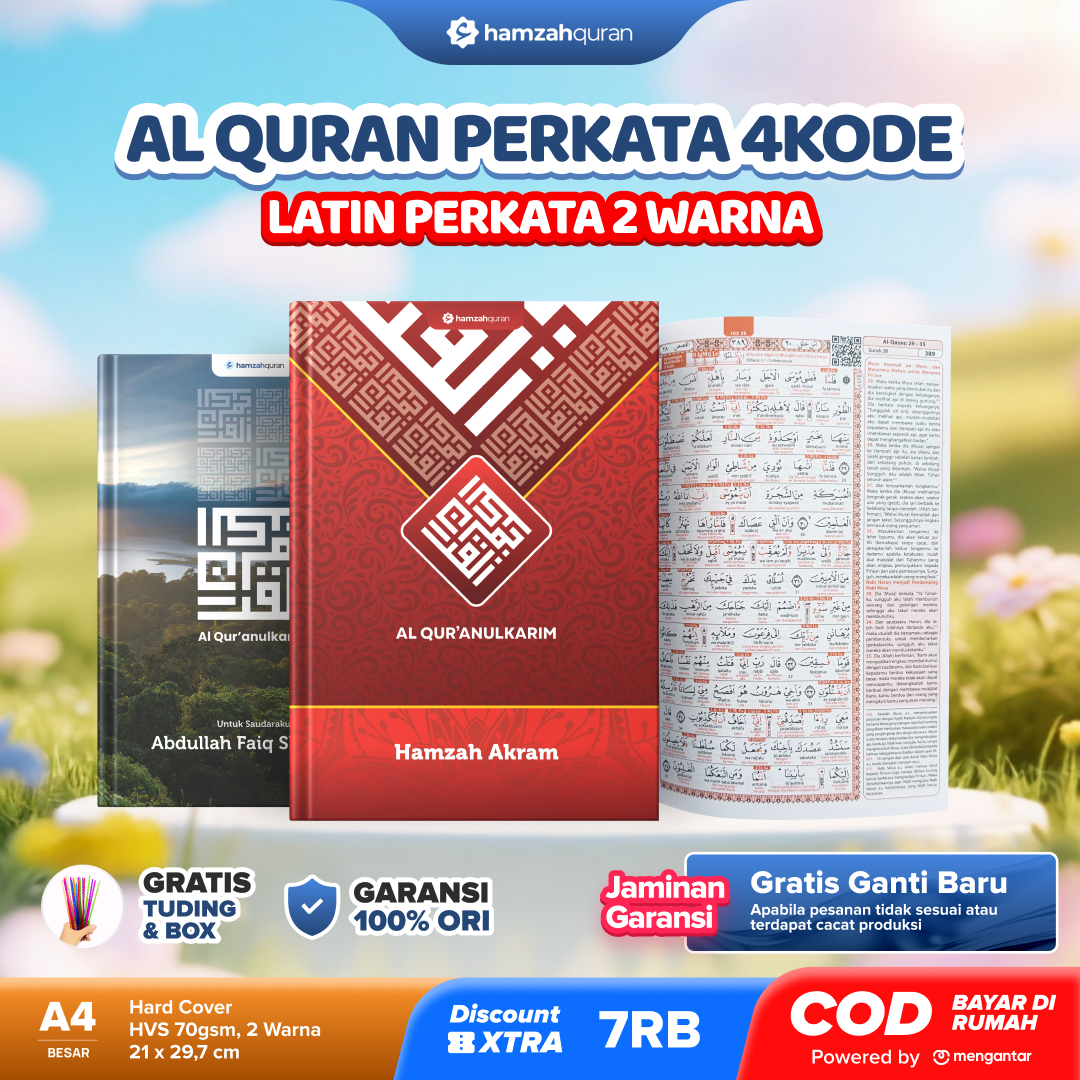
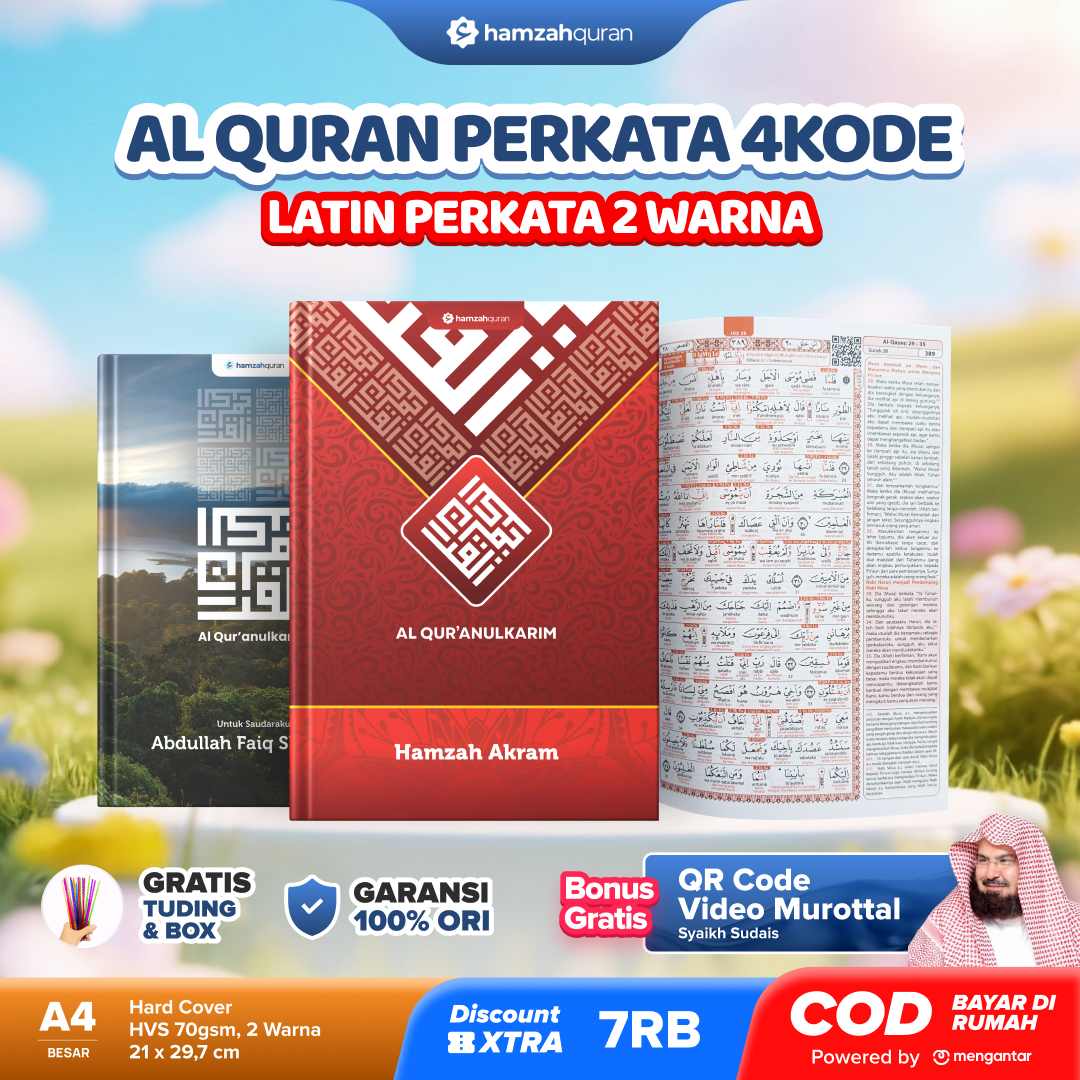
kecilkan judul produk desktop, nama produk HVS/QPP, social proof baru

Changed region(s): [[0.5194, 0.7333, 1.0, 0.9167]]

diff --git a/script.js b/script.js
@@ -146,7 +146,7 @@ id: 3,
     },
     {
         id: 11,
-        name: "Al Quran Custom Tilawah A4",
+        name: "Al Quran Custom Tilawah A4 QPP Tajwid Warna",
         category: "Al Quran Besar",
         weight: 1600,
         priceCrt: "Rp169.000",
@@ -154,13 +154,13 @@ id: 3,
         priceWa: "Rp155.000",
         img: "img/katalog/tilawah-a4.jpg",
         images: ["img/tilawah-a4/tilawah-a4.jpg", "img/tilawah-a4/tilawah-a4-1.jpg", "img/tilawah-a4/tilawah-a4-2.jpg", "img/tilawah-a4/tilawah-a4-3.jpg", "img/tilawah-a4/tilawah-a4-4.jpg", "img/usp.jpg", "img/usp-1.jpg", "img/usp-2.jpg"],
-        wa: "Halo Admin, saya ingin pesan Al Quran Custom Nama Tilawah A4",
+        wa: "Halo Admin, saya ingin pesan Al Quran Custom Nama Tilawah A4 QPP Tajwid Warna",
         shopee: "https://shopee.co.id/hamzahquran",
         specs: ["Kertas Quran Premium (awet dan tahan lama)", "Tajwid Warna", "Rasm Utsmani 15 baris", "Ukuran A4 (Besar) 21 x 29,7 cm", "Tanpa terjemah", "Hardcover kokoh", "Cocok untuk tilawah harian", "Desain elegan", "Proses cetak cepat"]
     },
     {
         id: 12,
-        name: "Al Quran Custom Tilawah 4 Kode Warna A5",
+        name: "Al Quran Custom Tilawah 4 Kode Warna A5 HVS",
         category: "Al Quran Sedang",
         weight: 850,
         priceCrt: "Rp103.000",
@@ -169,13 +169,13 @@ id: 3,
         xtraVoucher: 5000,
         img: "img/katalog/tilawah-4kode-a5.jpg",
         images: ["img/tilawah-4kode-a5/tilawah-4kode-a5.jpg", "img/tilawah-4kode-a5/tilawah-4kode-a5-1.jpg", "img/tilawah-4kode-a5/tilawah-4kode-a5-2.jpg", "img/tilawah-4kode-a5/tilawah-4kode-a5-3.jpg", "img/usp.jpg", "img/usp-1.jpg", "img/usp-2.jpg"],
-        wa: "Halo Admin, saya ingin pesan Al Quran Custom Nama Tilawah 4 Kode Warna A5",
+        wa: "Halo Admin, saya ingin pesan Al Quran Custom Nama Tilawah 4 Kode Warna A5 HVS",
         shopee: "",
         specs: ["Kertas HVS 70gsm", "Isi berwarna", "4 kode warna tajwid", "Rasm Utsmani 15 baris", "Ukuran A5 (Sedang) 14,8 x 21 cm", "Tanpa terjemah", "Hardcover kokoh", "Cocok untuk tilawah harian", "Desain elegan", "Proses cetak cepat"]
     },
     {
         id: 13,
-        name: "Al Quran Custom Tilawah 4 Kode Warna A4",
+        name: "Al Quran Custom Tilawah 4 Kode Warna A4 HVS",
         category: "Al Quran Besar",
         weight: 1600,
         priceCrt: "Rp136.000",
@@ -184,13 +184,13 @@ id: 3,
         xtraVoucher: 7000,
         img: "img/katalog/tilawah-4kode-a4.jpg",
         images: ["img/tilawah-4kode-a4/tilawah-4kode-a4.jpg", "img/tilawah-4kode-a4/tilawah-4kode-a4-1.jpg", "img/tilawah-4kode-a4/tilawah-4kode-a4-2.jpg", "img/tilawah-4kode-a4/tilawah-4kode-a4-3.jpg", "img/tilawah-4kode-a4/tilawah-4kode-a4-4.jpg", "img/usp.jpg", "img/usp-1.jpg", "img/usp-2.jpg"],
-        wa: "Halo Admin, saya ingin pesan Al Quran Custom Nama Tilawah 4 Kode Warna A4",
+        wa: "Halo Admin, saya ingin pesan Al Quran Custom Nama Tilawah 4 Kode Warna A4 HVS",
         shopee: "",
         specs: ["Kertas HVS 70gsm", "Isi berwarna", "4 kode warna tajwid", "Rasm Utsmani 15 baris", "Ukuran A4 (Besar) 21 x 29,7 cm", "Tanpa terjemah", "Hardcover kokoh", "Cocok untuk tilawah harian", "Desain elegan", "Proses cetak cepat"]
     },
     {
         id: 14,
-        name: "Al Quran Custom Perkata Latin 4 Kode Warna A5",
+        name: "Al Quran Custom Perkata Latin 4 Kode Warna A5 HVS",
         category: "Al Quran Sedang",
         weight: 850,
         priceCrt: "Rp100.000",
@@ -199,13 +199,13 @@ id: 3,
         xtraVoucher: 5000,
         img: "img/katalog/perkata-4kode-a5.jpg",
         images: ["img/perkata-4kode-a5/perkata-4kode-a5.jpg", "img/perkata-4kode-a5/perkata-4kode-a5-1.jpg", "img/perkata-4kode-a5/perkata-4kode-a5-2.jpg", "img/perkata-4kode-a5/perkata-4kode-a5-3.jpg", "img/usp.jpg", "img/usp-1.jpg", "img/usp-2.jpg"],
-        wa: "Halo Admin, saya ingin pesan Al Quran Custom Nama Perkata Latin 4 Kode Warna A5",
+        wa: "Halo Admin, saya ingin pesan Al Quran Custom Nama Perkata Latin 4 Kode Warna A5 HVS",
         shopee: "",
         specs: ["Kertas HVS 70gsm", "Isi 2 warna", "Terjemah perkata", "Latin perkata", "4 kode warna tajwid", "Ukuran A5 (Sedang) 14,8 x 21 cm", "Hardcover kokoh", "Cocok untuk belajar arti per kata", "Proses cetak cepat"]
     },
     {
         id: 15,
-        name: "Al Quran Custom Perkata Latin 4 Kode Warna A4",
+        name: "Al Quran Custom Perkata Latin 4 Kode Warna A4 HVS",
         category: "Al Quran Besar",
         weight: 1600,
         priceCrt: "Rp133.000",
@@ -214,7 +214,7 @@ id: 3,
         xtraVoucher: 7000,
         img: "img/katalog/perkata-4kode-a4.jpg",
         images: ["img/perkata-4kode-a4/perkata-4kode-a4.jpg", "img/perkata-4kode-a4/perkata-4kode-a4-1.jpg", "img/perkata-4kode-a4/perkata-4kode-a4-2.jpg", "img/perkata-4kode-a4/perkata-4kode-a4-3.jpg", "img/perkata-4kode-a4/perkata-4kode-a4-4.jpg", "img/usp.jpg", "img/usp-1.jpg", "img/usp-2.jpg"],
-        wa: "Halo Admin, saya ingin pesan Al Quran Custom Nama Perkata Latin 4 Kode Warna A4",
+        wa: "Halo Admin, saya ingin pesan Al Quran Custom Nama Perkata Latin 4 Kode Warna A4 HVS",
         shopee: "",
         specs: ["Kertas HVS 70gsm", "Isi 2 warna", "Terjemah perkata", "Latin perkata", "4 kode warna tajwid", "Ukuran A4 (Besar) 21 x 29,7 cm", "Hardcover kokoh", "Cocok untuk belajar arti per kata", "Proses cetak cepat"]
     },
@@ -234,6 +234,11 @@ const PRODUCT_SOCIAL_PROOF = {
     8: { rating: '4.8', sold: 567 },
     9: { rating: '4.9', sold: 4405 },
     10: { rating: '4.8', sold: 314 },
+    11: { rating: '5.0', sold: 12 },
+    12: { rating: '5.0', sold: 5 },
+    13: { rating: '5.0', sold: 7 },
+    14: { rating: '5.0', sold: 4 },
+    15: { rating: '5.0', sold: 1 },
 };
 
 // --- Label singkat untuk pill kategori di card (data p.category tetap penuh) ---

diff --git a/product-detail.html b/product-detail.html
@@ -195,7 +195,7 @@
                 
                 <div class="flex flex-col animate-fade-in-up" style="animation-delay: 100ms">
                     <h1 id="product-name"
-                        class="text-2xl lg:text-6xl font-display font-black text-slate-900 dark:text-white mb-6 leading-tight">
+                        class="text-2xl lg:text-4xl font-display font-black text-slate-900 dark:text-white mb-6 leading-tight">
                         Product Name</h1>
                     <div class="flex items-baseline gap-3 mb-1">
                         <span class="text-xs font-medium text-slate-400 dark:text-slate-500">Harga Shopee</span>
